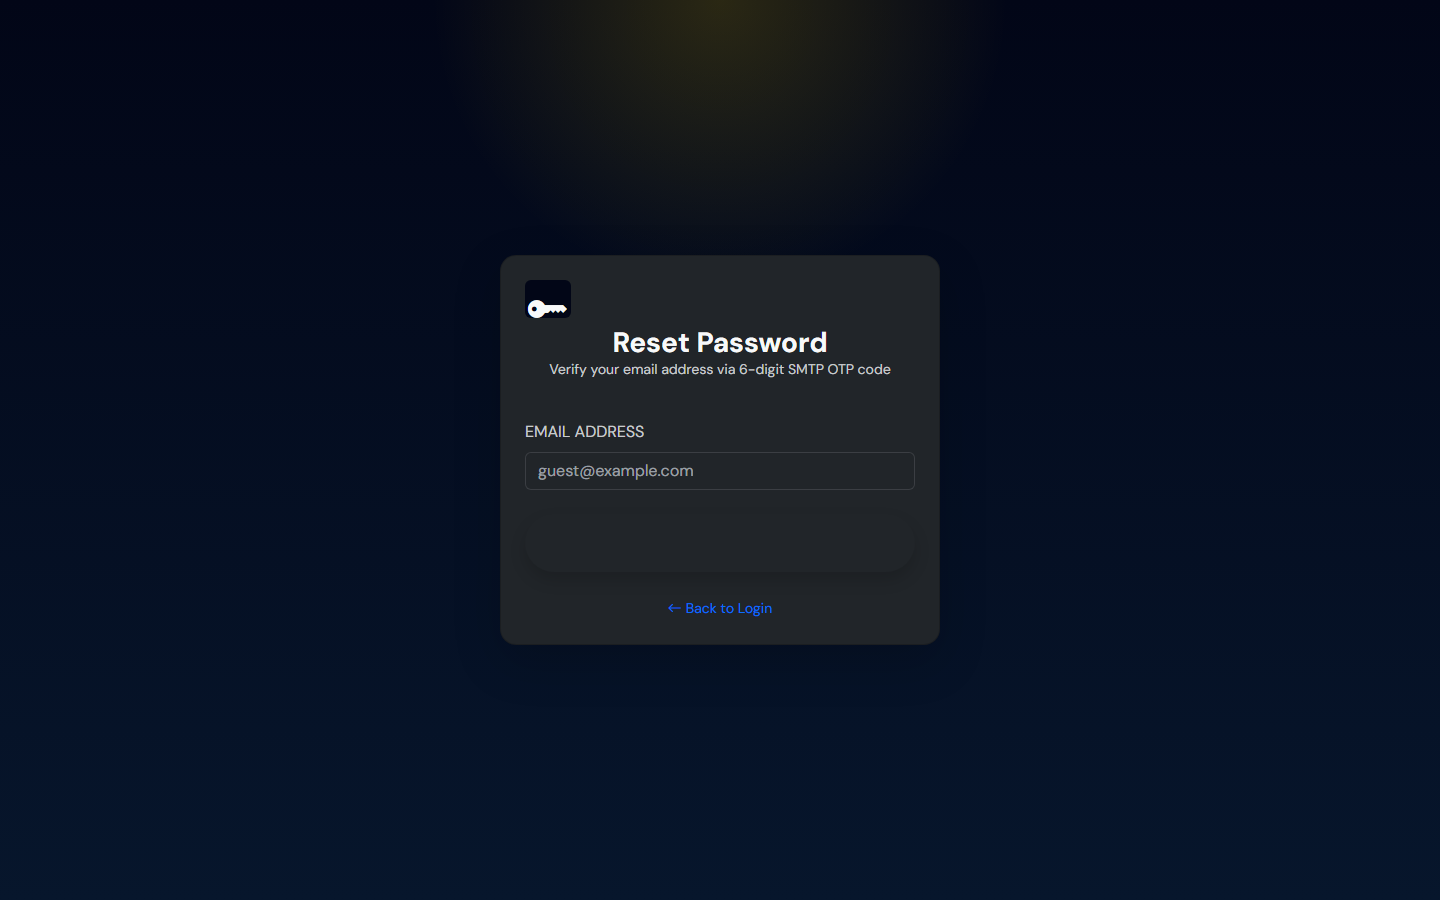
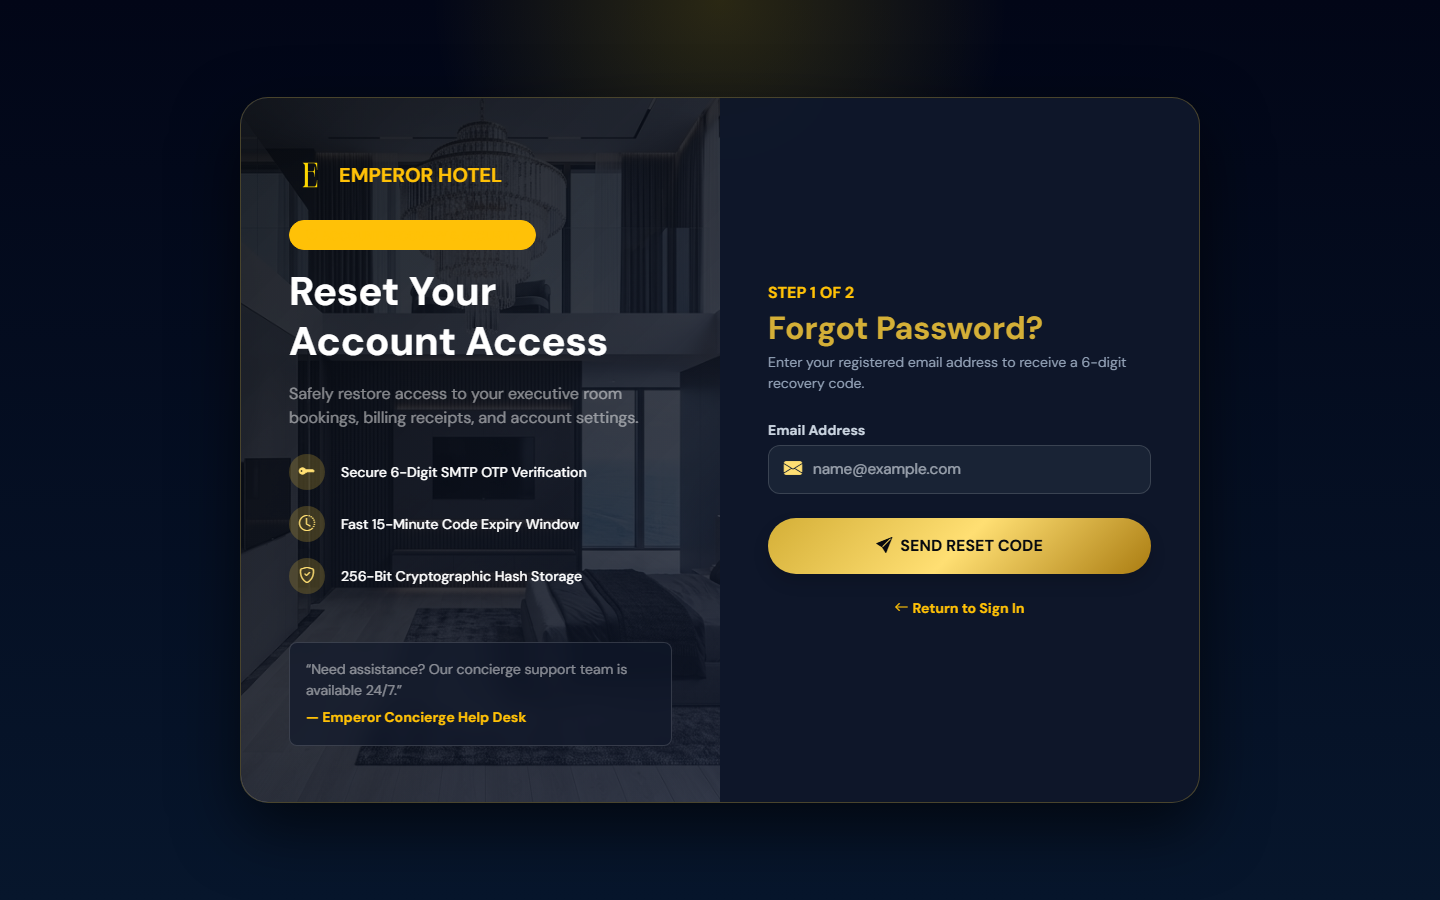
style: redesign forgot password page with flagship 5-star luxury split-card layout

diff --git a/public/auth/forgot-password.php b/public/auth/forgot-password.php
@@ -37,7 +37,7 @@ if ($_SERVER['REQUEST_METHOD'] === 'POST') {
             $html = "<h3>Password Reset Code</h3><p>Your 6-digit verification code is: <strong>{$otp}</strong></p><p>This code expires in 15 minutes.</p>";
             sendSmtpEmail($email, $subject, $html, $otp);
 
-            setFlash('info', "📩 Password reset verification code generated for {$email}.");
+            setFlash('info', "📩 Verification code sent to {$email}. Please enter your 6-digit code below.");
         } catch (Exception $ex) {
             $error = $ex->getMessage();
         }
@@ -60,11 +60,11 @@ if ($_SERVER['REQUEST_METHOD'] === 'POST') {
             $user = $stmt->fetch();
 
             if (!$user || $user['otp_code'] !== $otp) {
-                throw new RuntimeException('Invalid verification code.');
+                throw new RuntimeException('Invalid verification code. Please check and try again.');
             }
 
             if (!empty($user['otp_expires_at']) && strtotime($user['otp_expires_at']) < time()) {
-                throw new RuntimeException('Verification code has expired. Please try again.');
+                throw new RuntimeException('Verification code has expired. Please request a new code.');
             }
 
             $hash = password_hash($newPassword, PASSWORD_DEFAULT);
@@ -74,7 +74,7 @@ if ($_SERVER['REQUEST_METHOD'] === 'POST') {
             $updateStmt->execute(['hash' => $hash, 'uid' => $user['user_id']]);
 
             unset($_SESSION['reset_email']);
-            setFlash('success', 'Password successfully reset! You can now log in with your new password.');
+            setFlash('success', '🔐 Password successfully updated! You can now log in with your new password.');
             redirect('login.php');
         } catch (Exception $ex) {
             $error = $ex->getMessage();
@@ -83,57 +83,161 @@ if ($_SERVER['REQUEST_METHOD'] === 'POST') {
     }
 }
 
-renderHeader('Forgot Password - Emperor Hotel', ['../assets/css/auth/login.css']);
+renderHeader('Reset Password - Emperor Hotel & Suites', ['../assets/css/auth/login.css']);
 ?>
-<div class="auth-wrapper d-flex align-items-center justify-content-center min-vh-100 py-5 bg-dark">
-    <div class="card bg-dark text-light border-gold-glow rounded-4 p-4 shadow-lg style-auth-card" style="max-width: 440px; width: 100%;">
-        <div class="text-center mb-4">
-            <div class="brand-logo mb-2 fs-1 text-gold"><i class="bi bi-key-fill"></i></div>
-            <h3 class="font-serif text-gold fw-bold m-0">Reset Password</h3>
-            <p class="text-muted small">Verify your email address via 6-digit SMTP OTP code</p>
-        </div>
+<main class="auth-wrapper min-vh-100 d-flex align-items-center justify-content-center py-5">
+    <div class="container">
+        <div class="card auth-split-card border-0 rounded-4 overflow-hidden shadow-lg mx-auto" style="max-width: 960px;">
+            <div class="row g-0">
+                <!-- Left Column: Hotel Branding Showcase -->
+                <div class="col-lg-6 auth-hero-col d-flex flex-column justify-content-between text-white">
+                    <div>
+                        <a href="../site/home.php" class="d-inline-flex align-items-center gap-2 text-decoration-none mb-4">
+                            <img src="../assets/images/branding/emperors-hotel-logo.svg" alt="Emperor Hotel logo" style="width: 42px; height: 42px;">
+                            <span class="font-serif fw-bold fs-5 tracking-wider text-warning">EMPEROR HOTEL</span>
+                        </a>
+                        <div>
+                            <span class="badge bg-warning bg-opacity-20 text-warning border border-warning border-opacity-30 rounded-pill px-3 py-2 text-xs text-uppercase font-serif fw-semibold mb-3 d-inline-block">
+                                <i class="bi bi-shield-lock-fill me-1"></i>Account Recovery & Security
+                            </span>
+                        </div>
+                        <h2 class="display-6 font-serif fw-bold mb-3 text-white" style="line-height: 1.25;">
+                            Reset Your Account Access
+                        </h2>
+                        <p class="text-white-50 font-serif lead fs-6 mb-4">
+                            Safely restore access to your executive room bookings, billing receipts, and account settings.
+                        </p>
 
-        <?php renderFlashBlock(); ?>
+                        <div class="d-flex flex-column gap-3 mb-4">
+                            <div class="d-flex align-items-center gap-3">
+                                <div class="rounded-circle d-flex align-items-center justify-content-center flex-shrink-0" style="width: 36px; height: 36px; background: rgba(212, 175, 55, 0.25); color: #FFDF73;">
+                                    <i class="bi bi-key-fill"></i>
+                                </div>
+                                <span class="small font-serif fw-medium text-white-90">Secure 6-Digit SMTP OTP Verification</span>
+                            </div>
+                            <div class="d-flex align-items-center gap-3">
+                                <div class="rounded-circle d-flex align-items-center justify-content-center flex-shrink-0" style="width: 36px; height: 36px; background: rgba(212, 175, 55, 0.25); color: #FFDF73;">
+                                    <i class="bi bi-clock-history"></i>
+                                </div>
+                                <span class="small font-serif fw-medium text-white-90">Fast 15-Minute Code Expiry Window</span>
+                            </div>
+                            <div class="d-flex align-items-center gap-3">
+                                <div class="rounded-circle d-flex align-items-center justify-content-center flex-shrink-0" style="width: 36px; height: 36px; background: rgba(212, 175, 55, 0.25); color: #FFDF73;">
+                                    <i class="bi bi-shield-check"></i>
+                                </div>
+                                <span class="small font-serif fw-medium text-white-90">256-Bit Cryptographic Hash Storage</span>
+                            </div>
+                        </div>
+                    </div>
 
-        <?php if ($error): ?>
-            <div class="alert alert-danger py-2 small"><?= e($error) ?></div>
-        <?php endif; ?>
+                    <div class="p-3 rounded-3 mt-4" style="background: rgba(15, 23, 42, 0.65); backdrop-filter: blur(10px); border: 1px solid rgba(255, 255, 255, 0.15);">
+                        <p class="small font-serif italic mb-1 text-white-50">&ldquo;Need assistance? Our concierge support team is available 24/7.&rdquo;</p>
+                        <small class="text-warning font-serif fw-bold">&mdash; Emperor Concierge Help Desk</small>
+                    </div>
+                </div>
 
-        <?php if ($step === 1): ?>
-            <form method="POST" action="forgot-password.php">
-                <input type="hidden" name="step" value="1">
-                <div class="mb-4">
-                    <label class="form-label text-xs text-uppercase tracking-wider text-muted">Email Address</label>
-                    <input type="email" name="email" class="form-control form-control-dark border-gold bg-dark text-light" placeholder="[email redacted]" required>
-                </div>
-                <button type="submit" class="btn btn-gold w-100 rounded-pill py-3 font-serif fw-bold shadow">
-                    Send Reset Code
-                </button>
-            </form>
-        <?php else: ?>
-            <form method="POST" action="forgot-password.php">
-                <input type="hidden" name="step" value="2">
-                <div class="mb-3">
-                    <label class="form-label text-xs text-uppercase tracking-wider text-muted">6-Digit Verification Code</label>
-                    <input type="text" name="otp" maxlength="6" class="form-control form-control-dark border-gold bg-dark text-gold fw-bold text-center fs-5" placeholder="123456" required>
-                </div>
-                <div class="mb-3">
-                    <label class="form-label text-xs text-uppercase tracking-wider text-muted">New Password</label>
-                    <input type="password" name="new_password" class="form-control form-control-dark border-gold bg-dark text-light" required>
-                </div>
-                <div class="mb-4">
-                    <label class="form-label text-xs text-uppercase tracking-wider text-muted">Confirm New Password</label>
-                    <input type="password" name="confirm_password" class="form-control form-control-dark border-gold bg-dark text-light" required>
-                </div>
-                <button type="submit" class="btn btn-gold w-100 rounded-pill py-3 font-serif fw-bold shadow">
-                    Update Password
-                </button>
-            </form>
-        <?php endif; ?>
+                <!-- Right Column: Reset Password Form -->
+                <div class="col-lg-6 auth-form-col d-flex flex-column justify-content-center">
+                    <div class="mb-4">
+                        <span class="text-xs text-uppercase tracking-wider text-warning font-serif fw-bold d-block mb-1">
+                            Step <?= $step ?> of 2
+                        </span>
+                        <h3 class="font-serif fw-bold fs-2 m-0" style="color: var(--gold-primary, #D4AF37);">
+                            <?= $step === 1 ? 'Forgot Password?' : 'Enter Verification Code' ?>
+                        </h3>
+                        <p class="text-muted font-serif small m-0 mt-1">
+                            <?= $step === 1 ? 'Enter your registered email address to receive a 6-digit recovery code.' : 'Enter the code sent to your email along with your new password.' ?>
+                        </p>
+                    </div>
 
-        <div class="text-center mt-4">
-            <a href="login.php" class="text-gold text-decoration-none small"><i class="bi bi-arrow-left me-1"></i>Back to Login</a>
+                    <?php renderFlashBlock(); ?>
+
+                    <?php if ($error): ?>
+                        <div class="alert alert-danger border-0 shadow-sm py-2 px-3 small rounded-3 mb-4 d-flex align-items-center gap-2">
+                            <i class="bi bi-exclamation-triangle-fill flex-shrink-0 fs-5"></i>
+                            <div><?= e($error) ?></div>
+                        </div>
+                    <?php endif; ?>
+
+                    <?php if ($step === 1): ?>
+                        <form method="POST" action="forgot-password.php" class="d-grid gap-3">
+                            <input type="hidden" name="step" value="1">
+                            
+                            <div>
+                                <label class="form-label font-serif fw-semibold small mb-1" for="email">Email Address</label>
+                                <div class="position-relative auth-input-group">
+                                    <i class="bi bi-envelope-fill auth-input-icon"></i>
+                                    <input class="form-control" id="email" name="email" type="email" placeholder="[email redacted]" required autocomplete="email">
+                                </div>
+                            </div>
+
+                            <button class="btn btn-warning w-100 rounded-pill py-3 font-serif fw-bold fs-6 shadow text-uppercase tracking-wider mt-2" type="submit" style="background: linear-gradient(135deg, #D4AF37 0%, #FFDF73 50%, #AA7C11 100%); color: #070A10; border: none; box-shadow: 0 8px 25px rgba(212, 175, 55, 0.35);">
+                                <i class="bi bi-send-fill me-2"></i>Send Reset Code
+                            </button>
+                        </form>
+                    <?php else: ?>
+                        <form method="POST" action="forgot-password.php" class="d-grid gap-3">
+                            <input type="hidden" name="step" value="2">
+
+                            <div>
+                                <label class="form-label font-serif fw-semibold small mb-1" for="otp">6-Digit Verification Code</label>
+                                <div class="position-relative auth-input-group">
+                                    <i class="bi bi-shield-lock-fill auth-input-icon"></i>
+                                    <input class="form-control text-center font-monospace fw-bold fs-4 tracking-widest text-warning" id="otp" name="otp" type="text" maxlength="6" placeholder="123456" required autocomplete="one-time-code">
+                                </div>
+                            </div>
+
+                            <div>
+                                <label class="form-label font-serif fw-semibold small mb-1" for="new_password">New Password</label>
+                                <div class="position-relative auth-input-group">
+                                    <i class="bi bi-lock-fill auth-input-icon"></i>
+                                    <input class="form-control" id="new_password" name="new_password" type="password" placeholder="••••••••" required autocomplete="new-password">
+                                    <button type="button" class="password-toggle-btn" onclick="togglePasswordVisibility('new_password', this)" title="Show/Hide Password">
+                                        <i class="bi bi-eye-fill"></i>
+                                    </button>
+                                </div>
+                            </div>
+
+                            <div>
+                                <label class="form-label font-serif fw-semibold small mb-1" for="confirm_password">Confirm New Password</label>
+                                <div class="position-relative auth-input-group">
+                                    <i class="bi bi-check-circle-fill auth-input-icon"></i>
+                                    <input class="form-control" id="confirm_password" name="confirm_password" type="password" placeholder="••••••••" required autocomplete="new-password">
+                                    <button type="button" class="password-toggle-btn" onclick="togglePasswordVisibility('confirm_password', this)" title="Show/Hide Password">
+                                        <i class="bi bi-eye-fill"></i>
+                                    </button>
+                                </div>
+                            </div>
+
+                            <button class="btn btn-warning w-100 rounded-pill py-3 font-serif fw-bold fs-6 shadow text-uppercase tracking-wider mt-2" type="submit" style="background: linear-gradient(135deg, #D4AF37 0%, #FFDF73 50%, #AA7C11 100%); color: #070A10; border: none; box-shadow: 0 8px 25px rgba(212, 175, 55, 0.35);">
+                                <i class="bi bi-check-lg me-2"></i>Update Password
+                            </button>
+                        </form>
+                    <?php endif; ?>
+
+                    <div class="text-center mt-4 font-serif small">
+                        <a href="login.php" class="text-warning font-serif fw-bold text-decoration-none d-inline-flex align-items-center gap-1">
+                            <i class="bi bi-arrow-left"></i> Return to Sign In
+                        </a>
+                    </div>
+                </div>
+            </div>
         </div>
     </div>
-</div>
-<?php
+</main>
+
+<script>
+function togglePasswordVisibility(inputId, btn) {
+    const input = document.getElementById(inputId);
+    const icon = btn.querySelector('i');
+    if (input.type === 'password') {
+        input.type = 'text';
+        icon.className = 'bi bi-eye-slash-fill';
+    } else {
+        input.type = 'password';
+        icon.className = 'bi bi-eye-fill';
+    }
+}
+</script>
+</body>
+</html>